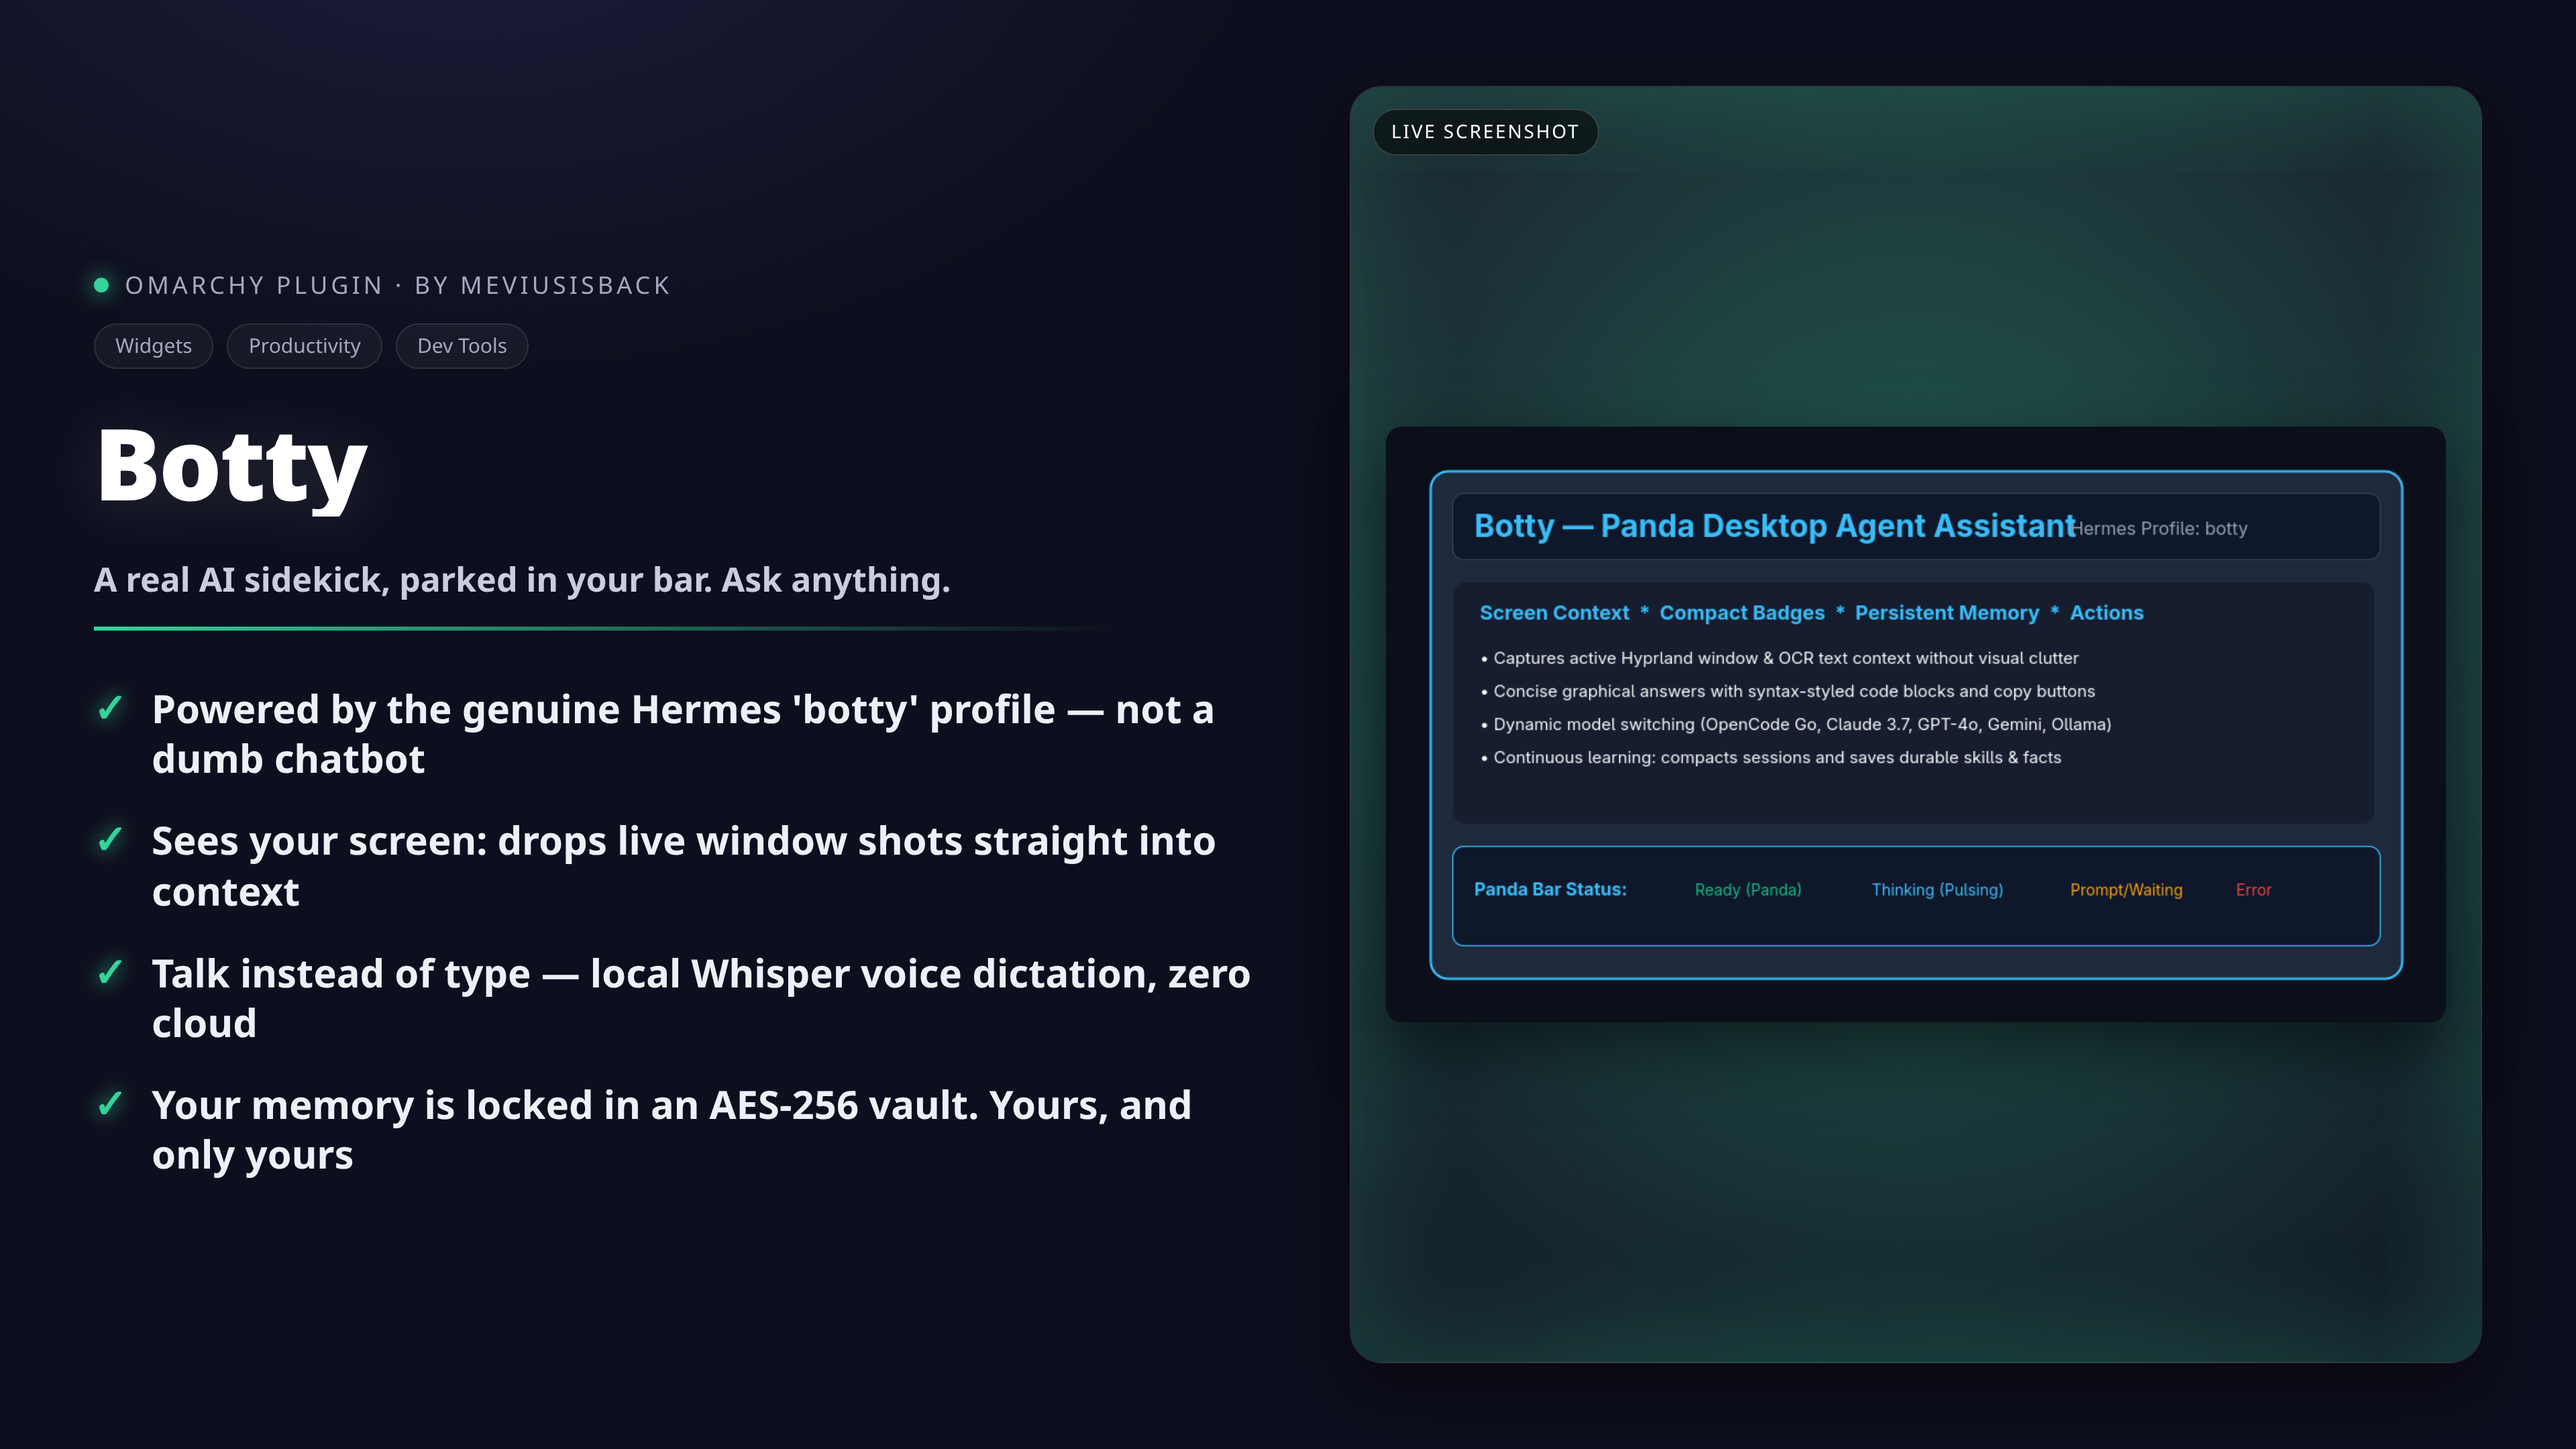
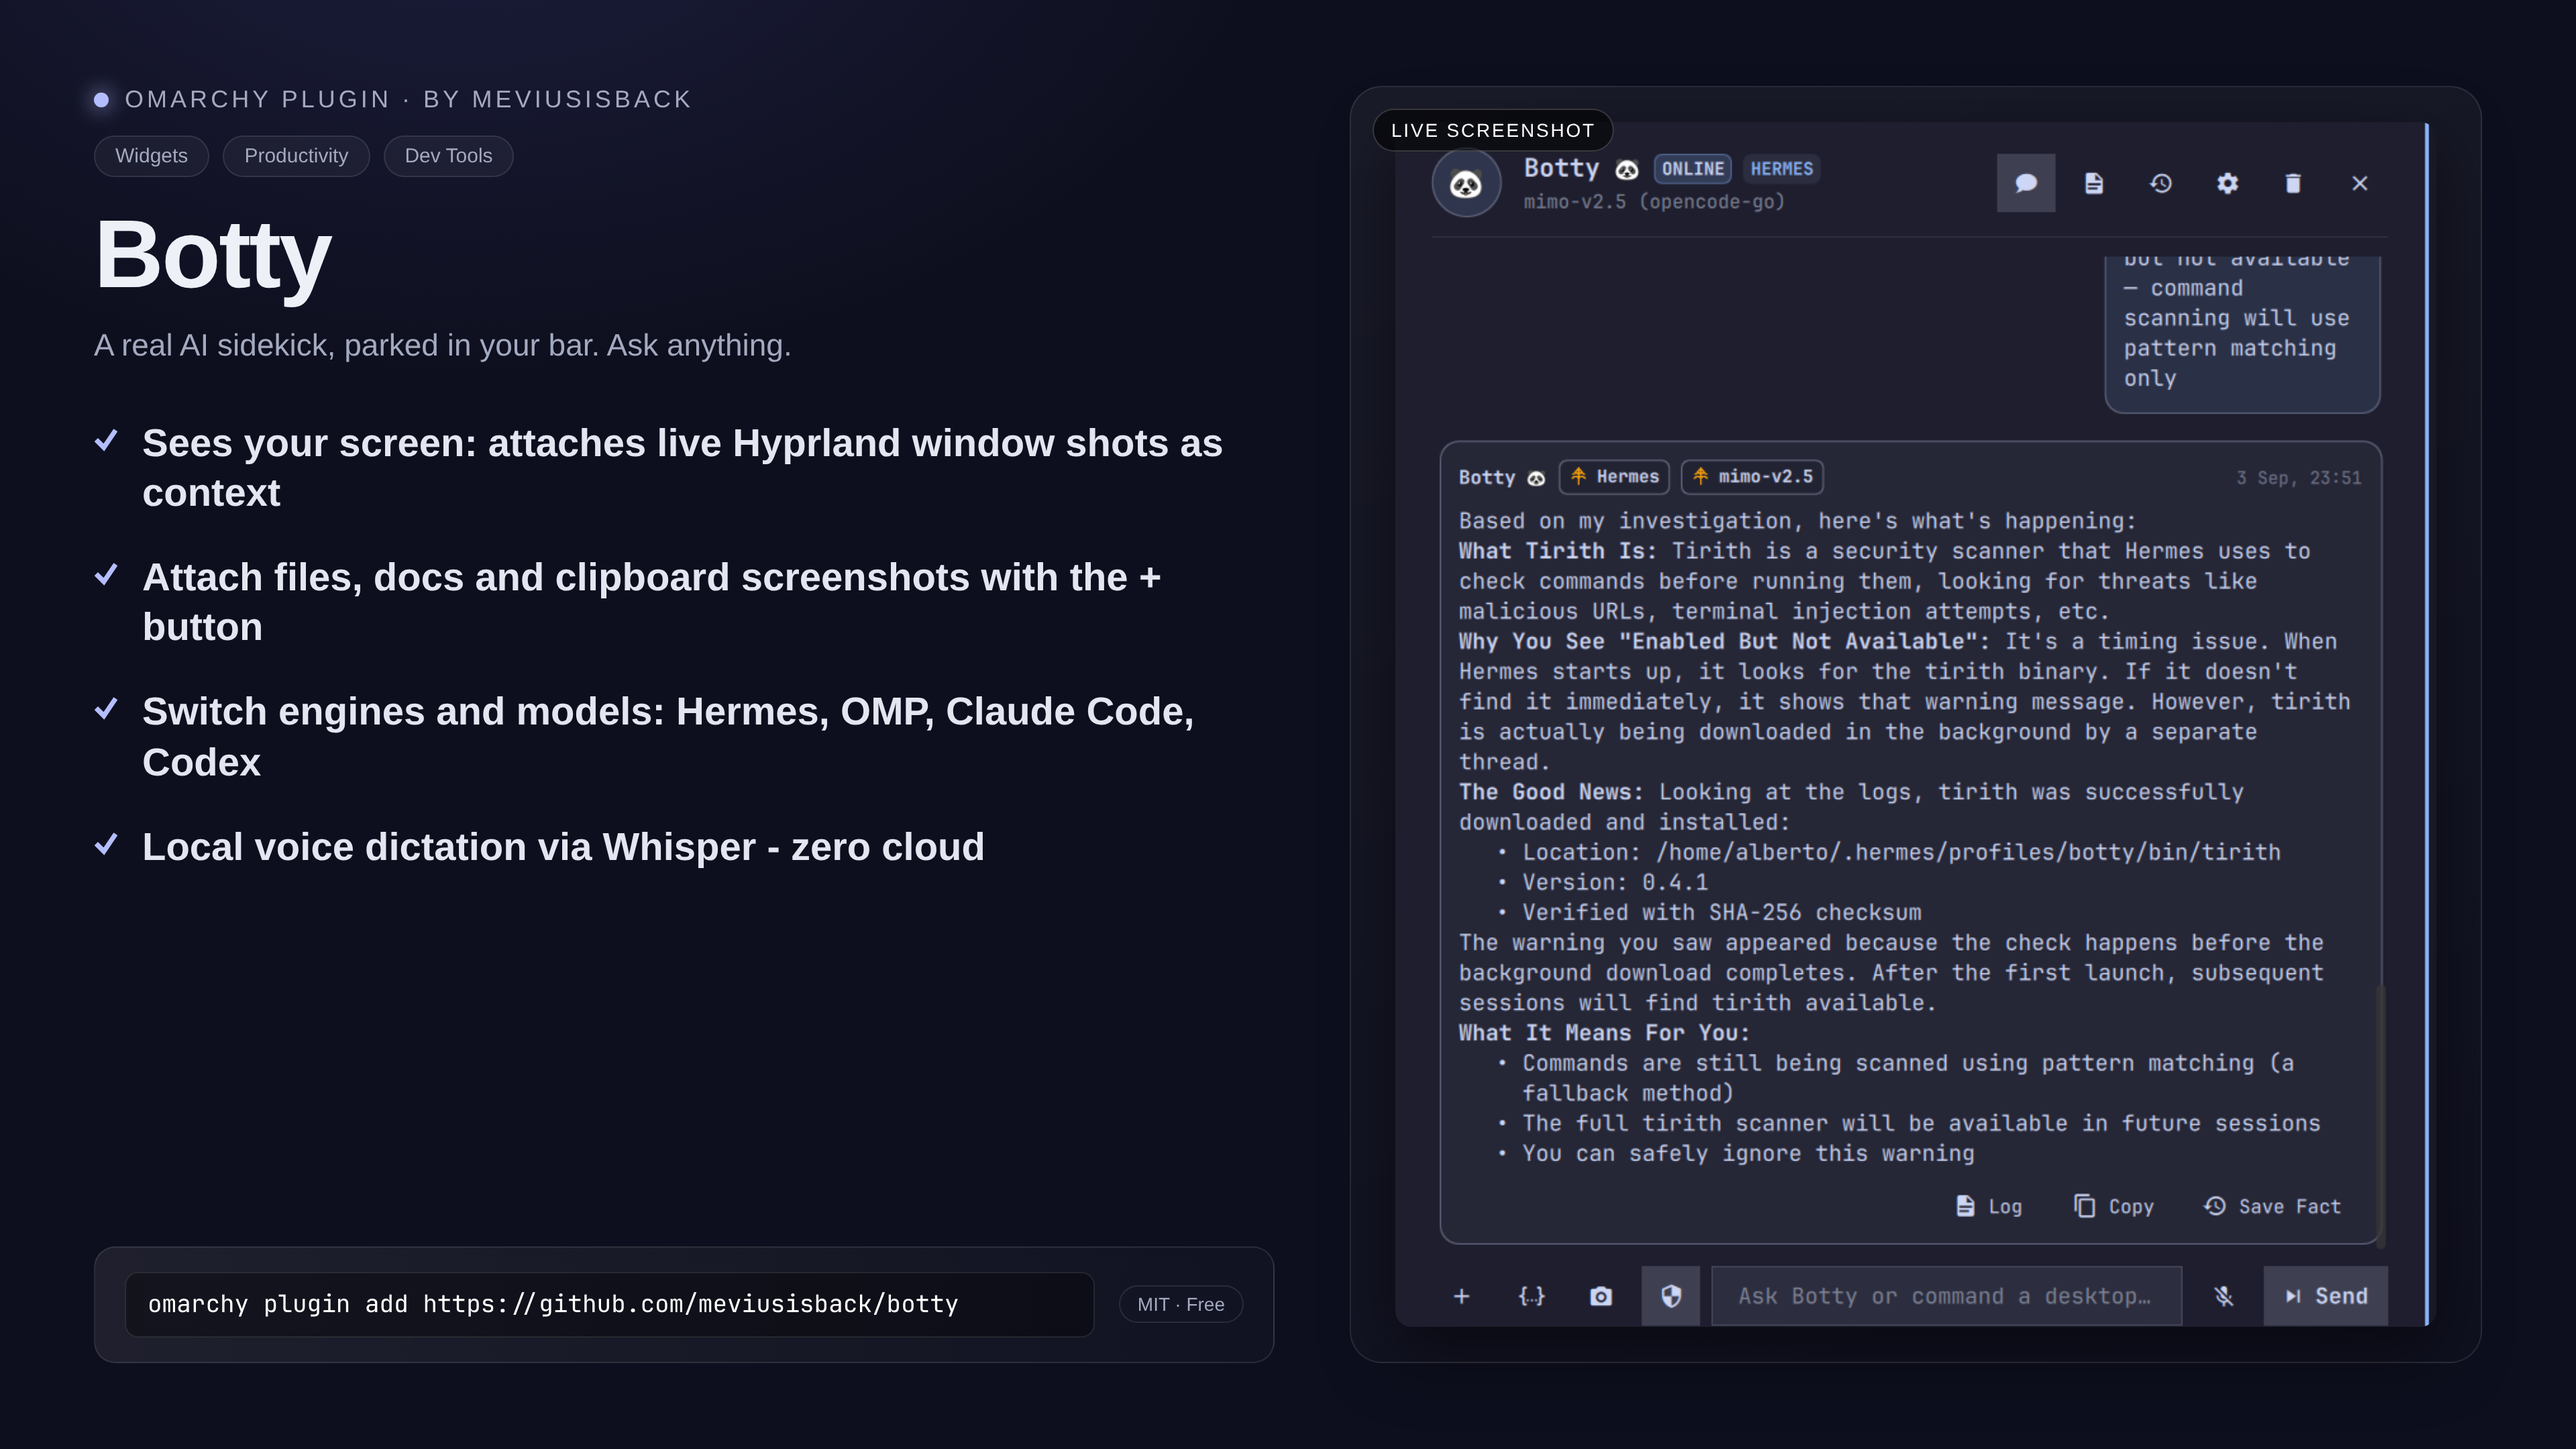
docs(publish): real install path, Removal + Requirements, refreshed poster
- Install now uses 'omarchy plugin add <git-url>' + hermes profile create
  botty prerequisite (was a machine-specific ln -s)
- Keybind docs match the actual omarchy-shell IPC commands
- Add Removal and Requirements sections (marketplace checklist items)
- Replace stale infographic (still carried the old vault claim) with a
  live capture of the panel including the aligned composer row

diff --git a/README.md b/README.md
@@ -34,7 +34,13 @@
 
 ## ⌨ Global Keyboard Shortcuts
 
-Configured in `~/.config/hypr/bindings.lua`:
+Botty registers the IPC handlers, but the keybinds live in your Hyprland
+bindings file (e.g. `~/.config/hypr/bindings.lua` on Omarchy). Add:
+
+```lua
+o.bind("SUPER + A", "Toggle Botty", "omarchy-shell -q meviusisback.botty toggle")
+o.bind("SUPER + SHIFT + A", "Botty with window context", "omarchy-shell -q meviusisback.botty situationContext")
+```
 
 | Shortcut | Action | Description |
 |---|---|---|
@@ -45,25 +51,47 @@ Configured in `~/.config/hypr/bindings.lua`:
 
 ## 🚀 Installation & Window Rules
 
-### 1. Link Plugin to Omarchy
+### 1. Prerequisite: a Hermes profile named `botty`
+
+Botty drives the Hermes Agent CLI (`hermes`) using a profile named `botty` —
+without it, the engine shows as unavailable. If you don't have one yet:
 
 ```bash
-mkdir -p ~/.config/omarchy/plugins
-ln -s ~/repo/botty ~/.config/omarchy/plugins/meviusisback.botty
+hermes profile create botty
 ```
 
-### 2. Configure Floating File Dialogs in Hyprland
+Install the engine's own tools (`hermes`, plus `ffmpeg`, `grim`, `wl-clipboard`,
+`openssl` for the vault backup) and, for voice dictation, `voxtype` with a
+local Whisper model.
 
-Add to your `~/.config/hypr/hyprland.lua`:
+### 2. Install the Plugin
+
+```bash
+omarchy plugin add https://github.com/meviusisback/botty --enable
+```
+
+Omarchy clones the plugin into `~/.config/omarchy/plugins/meviusisback.botty/`
+and enables the bar widget.
+
+### 3. Optional Keybinds & Floating File Dialogs
+
+Add to your Hyprland bindings file (e.g. `~/.config/hypr/bindings.lua`):
 
 ```lua
--- Float, center, and size file dialogs on top of the widget
+o.bind("SUPER + A", "Toggle Botty", "omarchy-shell -q meviusisback.botty toggle")
+o.bind("SUPER + SHIFT + A", "Botty with window context", "omarchy-shell -q meviusisback.botty situationContext")
+```
+
+Add to your `~/.config/hypr/hyprland.lua` to float, center, and size file
+dialogs on top of the widget:
+
+```lua
 o.window({ title = ".*Attach File.*" }, { float = true, center = true, size = { 740, 500 }, stay_focused = true })
 o.window({ title = ".*(Open File|Select File|Choose File|Open Folder|Save File).*" }, { float = true, center = true, size = { 740, 500 }, stay_focused = true })
 o.window("xdg-desktop-portal.*", { float = true, center = true, size = { 740, 500 } })
 ```
 
-### 3. Reload Omarchy Shell & Hyprland
+### 4. Reload Omarchy Shell & Hyprland
 
 ```bash
 hyprctl reload
@@ -85,6 +113,49 @@ JSON configuration file at `~/.local/share/botty/config.json`:
 The value is a positive number of seconds. Invalid or non-positive values use
 the 600-second default. Other Botty configuration keys may be kept alongside
 this setting.
+
+---
+
+## 🧹 Removal
+
+```bash
+omarchy plugin remove meviusisback.botty
+```
+
+This removes the plugin from the bar and deletes
+`~/.config/omarchy/plugins/meviusisback.botty/`. To also wipe Botty's own data
+(chat history, memories, captures), remove:
+
+```bash
+rm -rf ~/.local/share/botty
+```
+
+Your Hermes profile (`~/.hermes/profiles/botty`) is a separate Hermes resource
+and is not touched by the plugin; remove it manually if you want a full purge.
+
+---
+
+## 📦 Requirements
+
+**Runtime (required by the default Hermes engine):**
+
+| Dependency | Purpose |
+|---|---|
+| Omarchy (Hyprland + Quickshell shell) | The host desktop this widget runs in |
+| [`hermes`](https://github.com/NousResearch/hermes-agent) CLI | The agent engine behind the default profile |
+| A Hermes profile named `botty` (`hermes profile create botty`) | Botty's agent profile, memory, and skills |
+| `grim` | Screenshot capture for visual screen context |
+| `wl-clipboard` (`wl-copy`/`wl-paste`) | Clipboard image attach and copy-out |
+| `openssl` | AES-256 vault backup |
+| `ffmpeg` (PulseAudio/PipeWire input) | Voice dictation recording |
+
+**Optional engines (switch in Settings):** `omp` (Oh My Pi), `claude` (Claude Code), `codex` (OpenAI Codex).
+
+**Optional voice:** [`voxtype`](https://github.com/NousResearch/voxtype) with a local Whisper model.
+
+Non-Omarchy Hyprland setups work if the above binaries exist, but the widget's
+notifications and summons rely on Omarchy's shell helpers (`omarchy-shell`,
+`omarchy-notification-send`).
 
 ---
 
